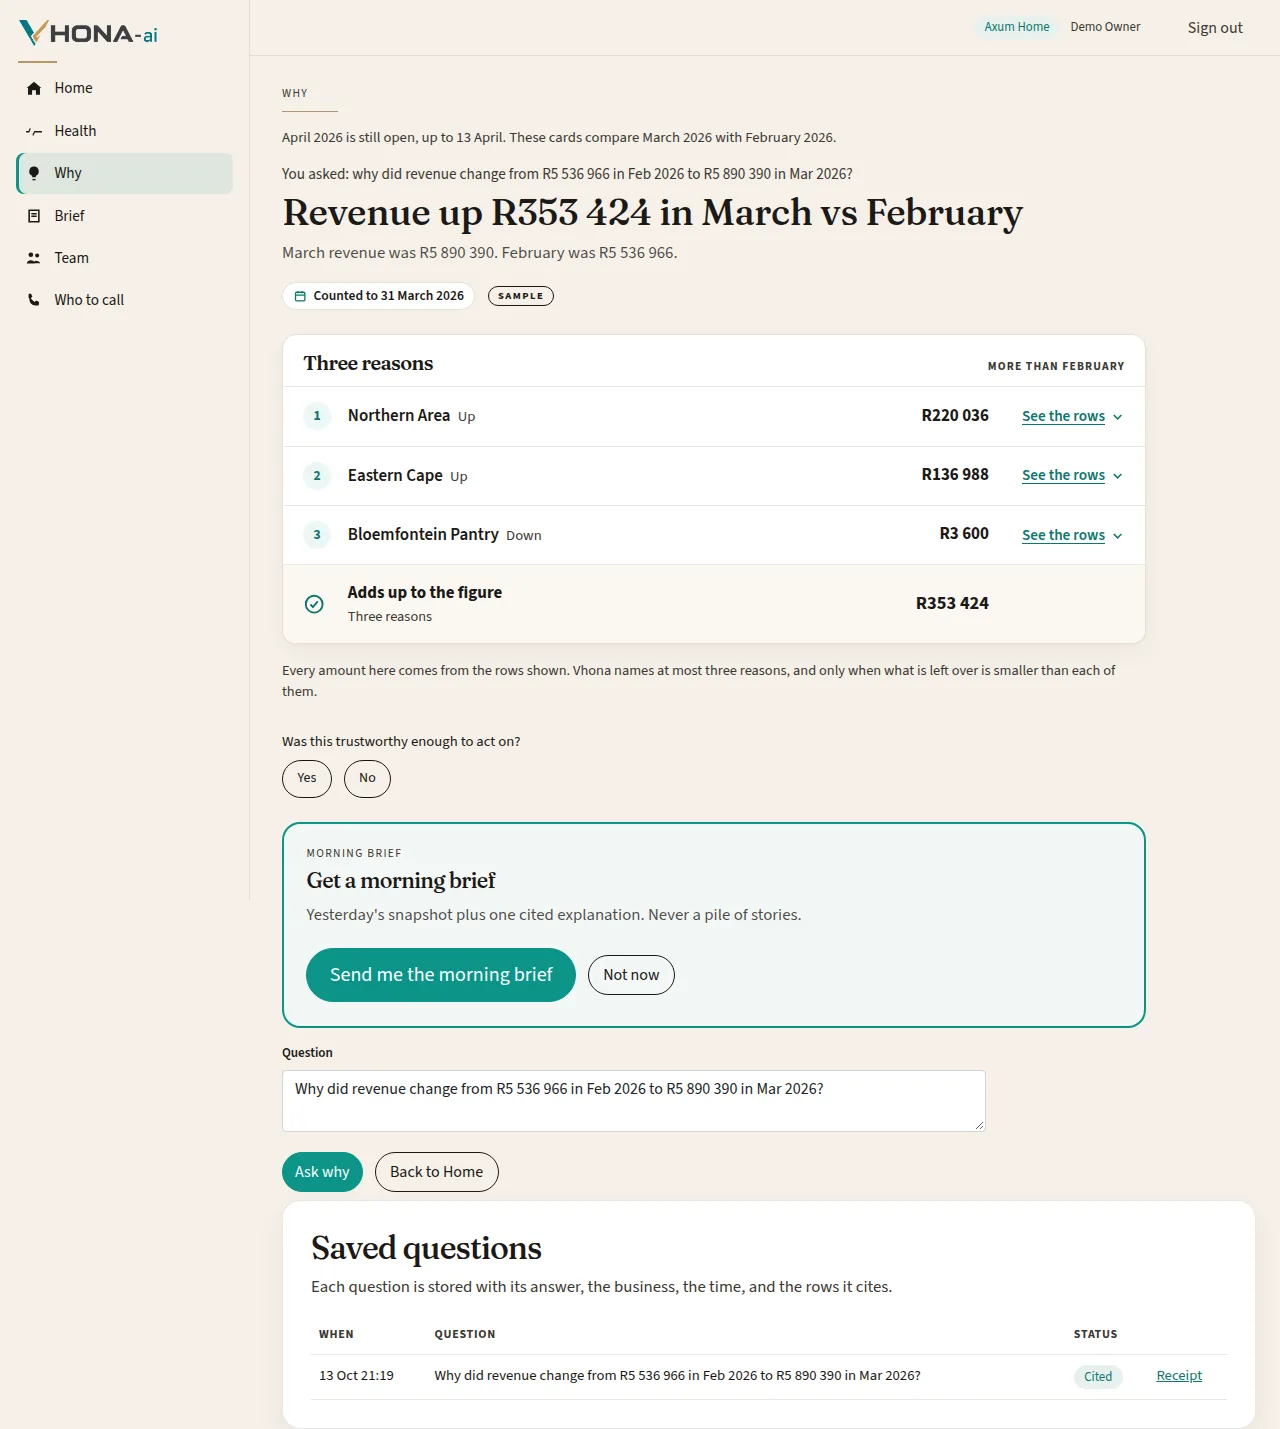
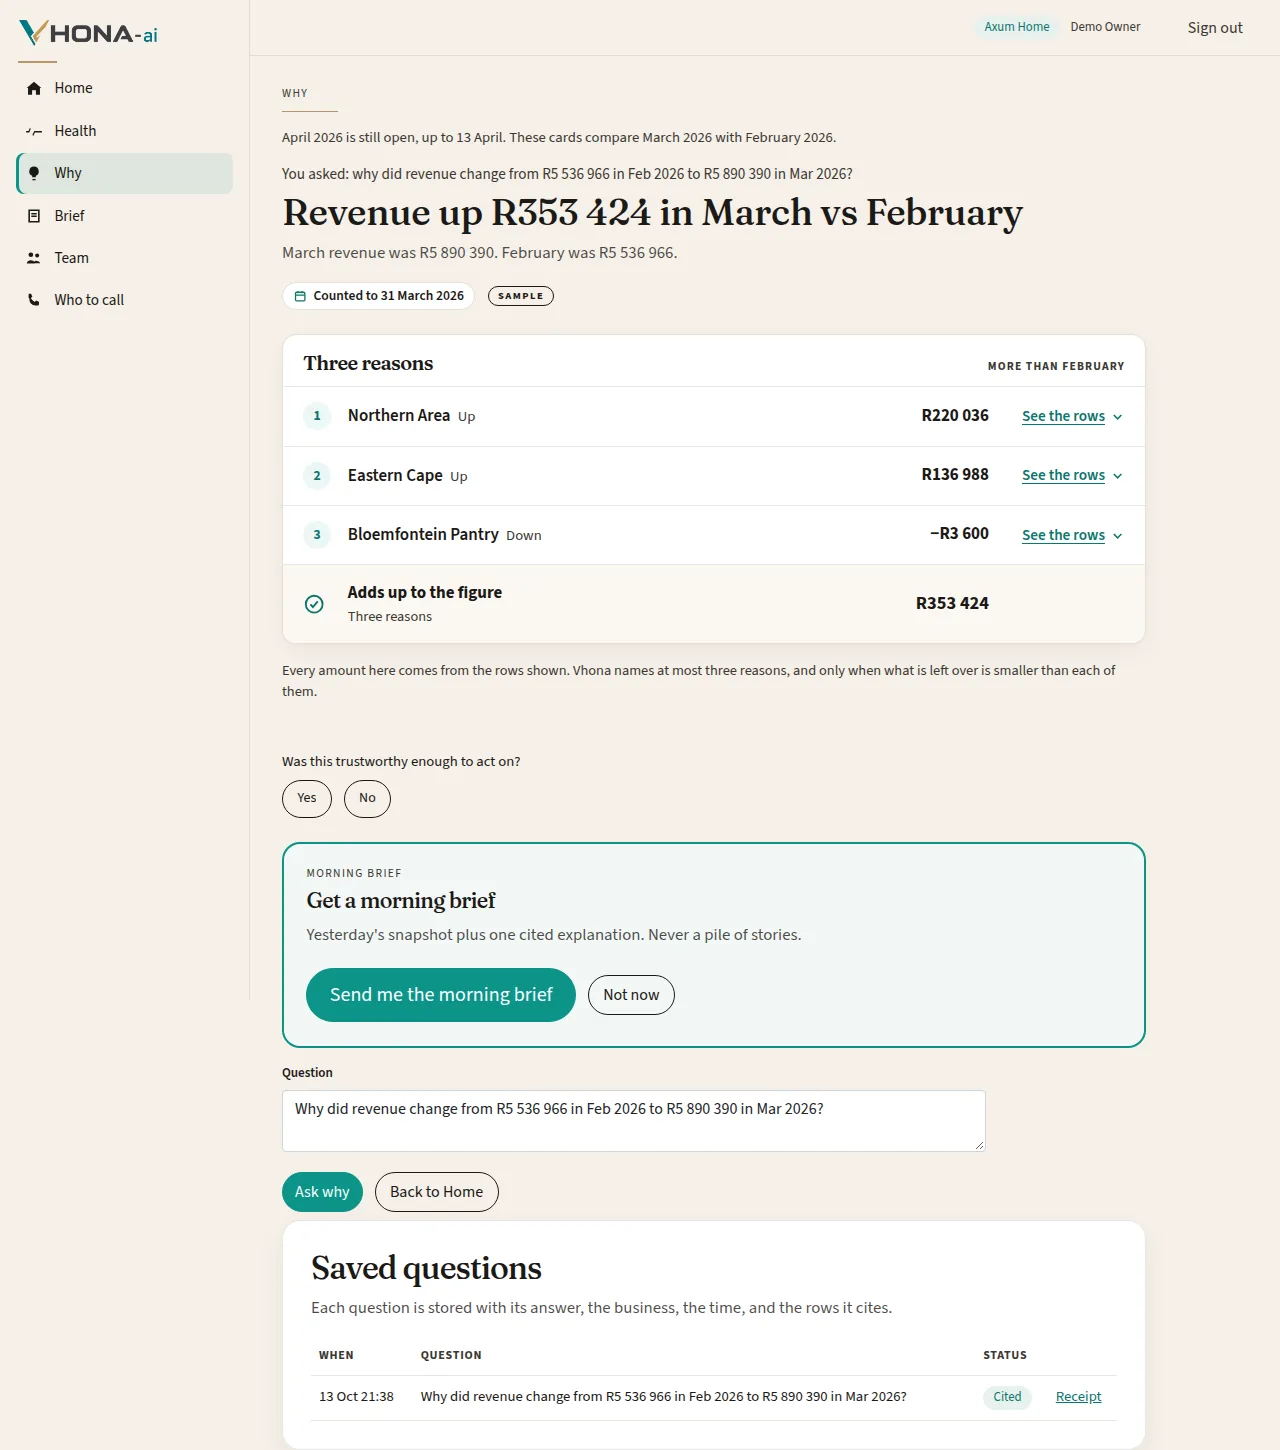
Add the Why screenshots for Karoo, Axum, and Held.
Refresh the in-app Why shots on the demo pages so the column, the Held row, and the phone width match this screen.

diff --git a/docs/demos/axum-home/index.html b/docs/demos/axum-home/index.html
@@ -353,7 +353,7 @@
             <figcaption>Home. March revenue R5&nbsp;890&nbsp;390, expenses R5&nbsp;705&nbsp;390, profit R185&nbsp;000, cash R3&nbsp;740&nbsp;000.</figcaption>
           </figure>
           <figure>
-            <img src="app-why.webp" width="1280" height="1429" alt="Sample Why screen for Axum revenue. April is still open, so the answer is counted to 31 March 2026. Revenue up R353 424 in March vs February. Northern Area R220 036, Eastern Cape R136 988, and Bloemfontein Pantry down R3 600. The customer names are made up." />
+            <img src="app-why.webp" width="1280" height="1450" alt="Sample Why screen for Axum revenue. April is still open, so the answer is counted to 31 March 2026. Revenue up R353 424 in March vs February. Northern Area R220 036, Eastern Cape R136 988, and Bloemfontein Pantry −R3 600. The customer names are made up." />
             <figcaption>Why. Revenue up R353&nbsp;424 in March vs February, counted to 31 March 2026 because April is still open. Northern Area and Eastern Cape are up. Bloemfontein Pantry, a made up customer, is down R3&nbsp;600.</figcaption>
           </figure>
           <figure>

diff --git a/docs/demos/karoo/index.html b/docs/demos/karoo/index.html
@@ -499,7 +499,7 @@
             <figcaption>Home. June revenue R741&nbsp;200, expenses R655&nbsp;100, profit R86&nbsp;100, cash R412&nbsp;300.</figcaption>
           </figure>
           <figure>
-            <img src="app-why.webp" width="1280" height="1394" alt="Sample Why screen for Karoo revenue. Revenue down R70 800 in June vs May. Counted to 30 June 2026. Gardens R30 436, Stellenbosch R23 478, and Sea Point R16 886, each with See the rows." />
+            <img src="app-why.webp" width="1280" height="1415" alt="Sample Why screen for Karoo revenue. Revenue down R70 800 in June vs May. Counted to 30 June 2026. Gardens R30 436, Stellenbosch R23 478, and Sea Point R16 886, each with See the rows." />
             <figcaption>Why. Revenue down R70&nbsp;800 in June vs May. Gardens, Stellenbosch, and Sea Point are the reasons. Counted to 30 June 2026.</figcaption>
           </figure>
           <figure>
